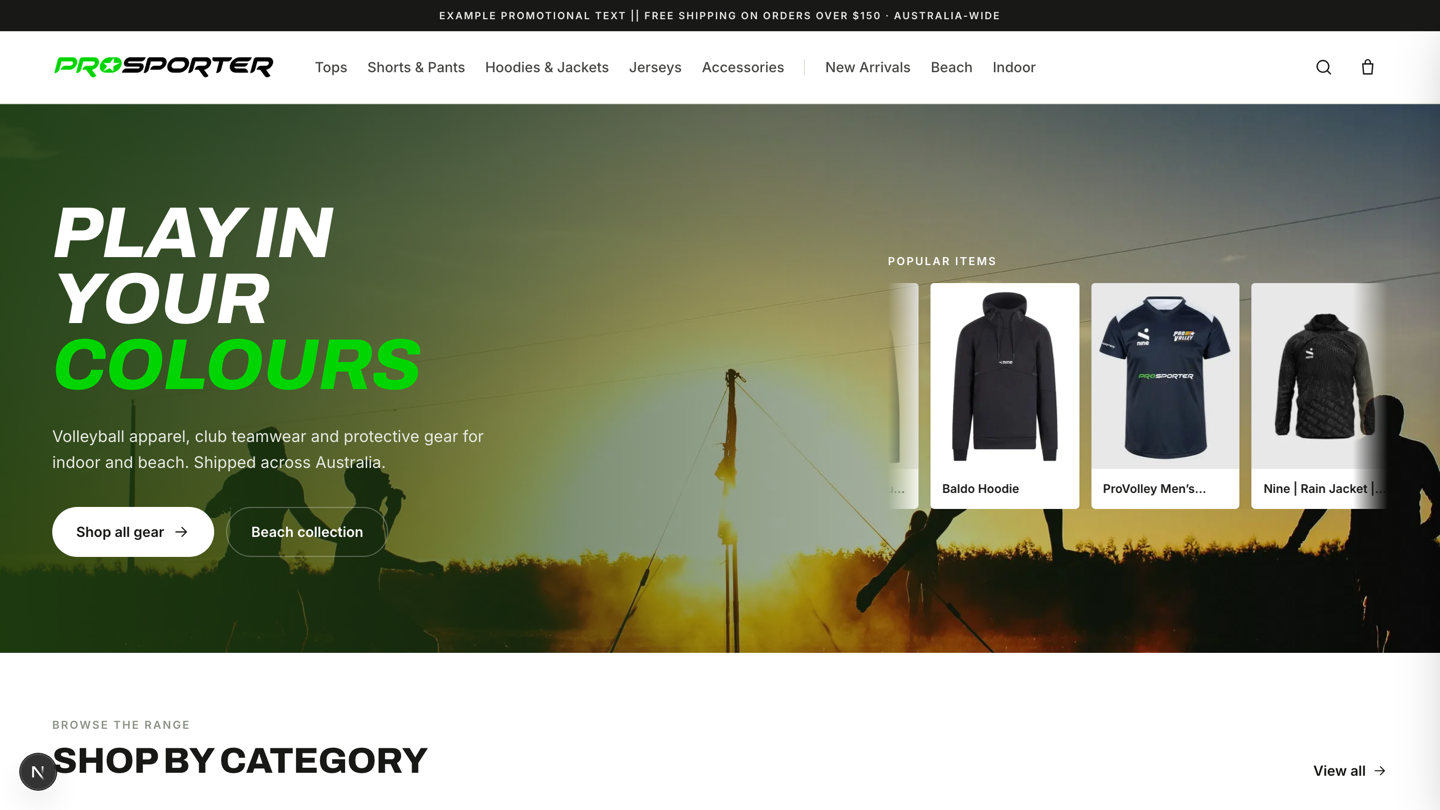
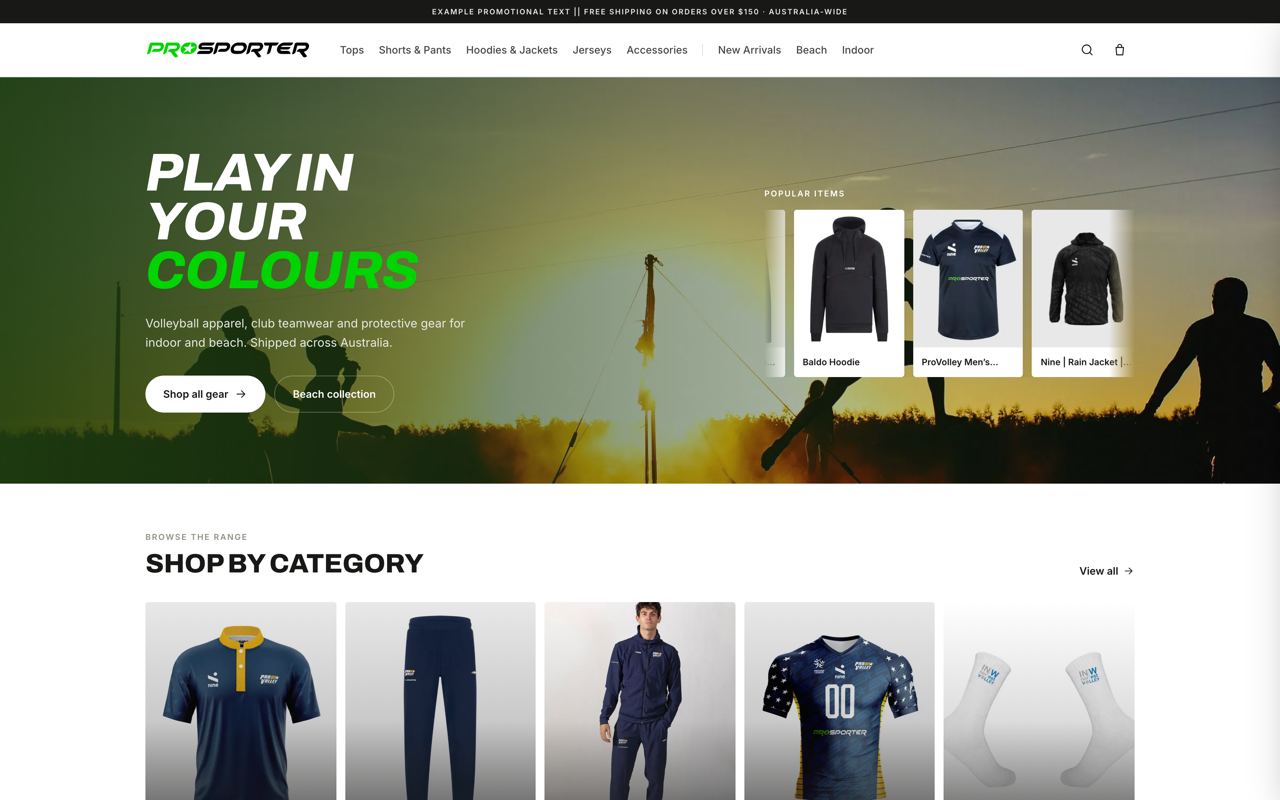
Reframe ProSporter preview: wider hero capture with margins (match innerwest framing)

diff --git a/components/work/previews/ProsporterPreview.tsx b/components/work/previews/ProsporterPreview.tsx
@@ -14,8 +14,8 @@ export function ProsporterPreview() {
       <Image
         src="/prosporter.png"
         alt="ProSporter store homepage, hero section"
-        width={1440}
-        height={810}
+        width={1280}
+        height={800}
         className={styles.image}
         priority
       />
